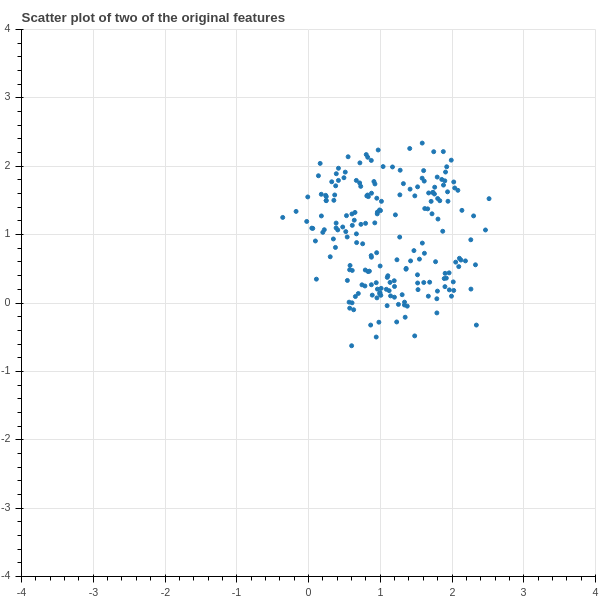
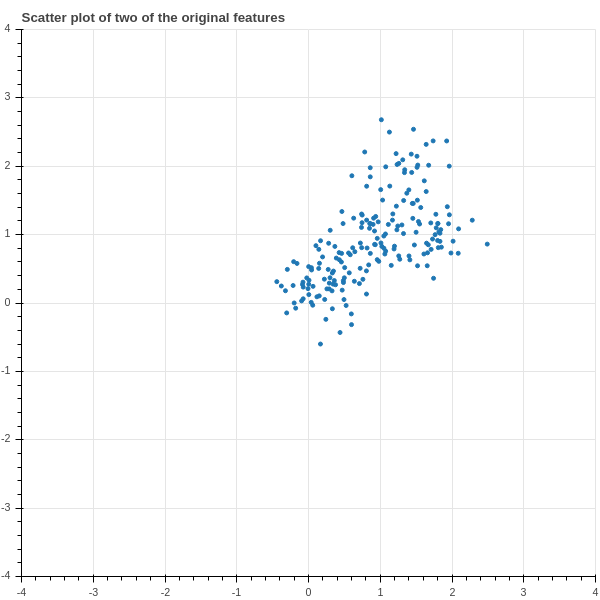
progress on PCA

Changed region(s): [[0.45, 0.21, 0.78, 0.54], [0.78, 0.36, 0.81, 0.39], [0.6, 0.54, 0.63, 0.57]]

diff --git a/PCA/src/DimReduction.html b/PCA/src/DimReduction.html
@@ -34,14 +34,14 @@
           
           
             
-              <div class="bk-root" id="871ba66c-07c6-4cd9-a043-fec06af19fca" data-root-id="1430"></div>
+              <div class="bk-root" id="eb6e8c0e-69dc-45c8-8ab1-ee1f8e26d0a9" data-root-id="1604"></div>
             
           
         
       
       
-        <script type="application/json" id="1719">
[1 lines of base64/hex data omitted]
+        <script type="application/json" id="2013">
[1 lines of base64/hex data omitted]
         </script>
         <script type="text/javascript">
           (function() {
@@ -50,8 +50,8 @@
                 (function(root) {
                   function embed_document(root) {
                     
-                  var docs_json = document.getElementById('1719').textContent;
-                  var render_items = [{"docid":"b1cb1c8c-e032-442e-b310-74aefe07c504","root_ids":["1430"],"roots":{"1430":"871ba66c-07c6-4cd9-a043-fec06af19fca"}}];
+                  var docs_json = document.getElementById('2013').textContent;
+                  var render_items = [{"docid":"c0c2c0e5-ee48-4b71-a508-b69e927a575e","root_ids":["1604"],"roots":{"1604":"eb6e8c0e-69dc-45c8-8ab1-ee1f8e26d0a9"}}];
                   root.Bokeh.embed.embed_items(docs_json, render_items);
                 
                   }

diff --git a/PCA/notes/main.html b/PCA/notes/main.html
@@ -26,17 +26,12 @@
   </style>
 </head>
 <body>
-<section id="principal-component-analysis" data-number="1">
-<h1 data-number="2"><span class="header-section-number">2</span> Principal Component Analysis</h1>
-<section id="introduction" data-number="1.1">
-<h2 data-number="2.1"><span class="header-section-number">2.1</span> Introduction</h2>
+<h1 data-number="1" id="principal-component-analysis"><span class="header-section-number">1</span> Principal Component Analysis</h1>
+<h2 data-number="1.1" id="introduction"><span class="header-section-number">1.1</span> Introduction</h2>
 <p>Suppose that, as usual, we begin with a collection of measurements of different features for a group of samples. Some of these measurements will tell us quite a bit about the difference among our samples, while others may contain relatively little information. For example, if we are analyzing the effect of a certain weight loss regimen on a group of people, the age and weight of the subjects may have a great deal of influence on how successful the regimen is, while their blood pressure might not. One way to help identify which features are more significant is to ask whether or not the feature varies a lot among the different samples. If nearly all the measurements of a feature are the same, it can’t have much power in distinguishing the samples, while if the measurements vary a great deal then that feature has a chance to contain useful information.</p>
 <p>In this section we will discuss a way to measure the variability of measurements and then introduce principal component analysis (PCA). PCA is a method for finding which linear combinations of measurements have the greatest variability and therefore might contain the most information. It also allows us to identify combinations of measurements that don’t vary much at all. Combining this information, we can sometimes replace our original system of features with a smaller set that still captures most of the interesting information in our data, and thereby find hidden characteristics of the data and simplify our analysis a great deal.</p>
-</section>
-<section id="variance-and-covariance" data-number="1.2">
-<h2 data-number="2.2"><span class="header-section-number">2.2</span> Variance and Covariance</h2>
-<section id="variance" data-number="1.2.1">
-<h3 data-number="2.2.1"><span class="header-section-number">2.2.1</span> Variance</h3>
+<h2 data-number="1.2" id="variance-and-covariance"><span class="header-section-number">1.2</span> Variance and Covariance</h2>
+<h3 data-number="1.2.1" id="variance"><span class="header-section-number">1.2.1</span> Variance</h3>
 <p>Suppose that we have a collection of measurements <span class="math inline">\((x_1,\ldots, x_n)\)</span> of a particular feature <span class="math inline">\(X\)</span>. For example, <span class="math inline">\(x_i\)</span> might be the initial weight of the <span class="math inline">\(ith\)</span> participant in our weight loss study. The mean of the values <span class="math inline">\((x_1,\ldots, x_n)\)</span> is</p>
 <p><span class="math display">\[
 \mu_{X} = \frac{1}{n}\sum_{i=1}^{n} x_{i}.
@@ -52,9 +47,7 @@
 <p><span id="eq:variancedot" class="eqnos"><span class="math display">\[
 \sigma_{X}^2 = \frac{1}{n}(X-\mu_{X}E)\cdot(X-\mu_{X}E)  = \frac{1}{n}\|X-\mu_{X}E\|^2.
 \]</span><span class="eqnos-number">(2)</span></span></p>
-</section>
-<section id="covariance" data-number="1.2.2">
-<h3 data-number="2.2.2"><span class="header-section-number">2.2.2</span> Covariance</h3>
+<h3 data-number="1.2.2" id="covariance"><span class="header-section-number">1.2.2</span> Covariance</h3>
 <p>The variance measures the dispersion of measures of a single feature. Often, we have measurements of multiple features and we might want to know something about how two features are related. The <em>covariance</em> is a measure of whether two features tend to be related, in the sense that when one increases, the other one increases; or when one increases, the other one decreases.</p>
 <p><strong>Definition:</strong> Given measurements <span class="math inline">\((x_1,\ldots, x_n)\)</span> and <span class="math inline">\((y_1,\ldots, y_n)\)</span> of two features <span class="math inline">\(X\)</span> and <span class="math inline">\(Y\)</span>, the covariance of <span class="math inline">\(X\)</span> and <span class="math inline">\(Y\)</span> is</p>
 <p><span id="eq:covariancedot" class="eqnos"><span class="math display">\[
@@ -65,9 +58,7 @@
 \sigma_{XY} = \frac{1}{N} ((X-\mu_{X})\cdot (Y-\mu_{Y})).
 \]</span></p>
 <p>From this point of view, we can see that <span class="math inline">\(\sigma_{XY}\)</span> is positive if the <span class="math inline">\(X-\mu_{X}\)</span> and <span class="math inline">\(Y-\mu_{Y}\)</span> vectors “point roughly in the same direction” and its negative if they “point roughly in the opposite direction.”</p>
-</section>
-<section id="correlation" data-number="1.2.3">
-<h3 data-number="2.2.3"><span class="header-section-number">2.2.3</span> Correlation</h3>
+<h3 data-number="1.2.3" id="correlation"><span class="header-section-number">1.2.3</span> Correlation</h3>
 <p>One problem with interpreting the variance and covariance is that we don’t have a scale – for example, if <span class="math inline">\(\sigma_{XY}\)</span> is large and positive, then we’d like to say that <span class="math inline">\(X\)</span> and <span class="math inline">\(Y\)</span> are closely related, but it could be just that the entries of <span class="math inline">\(X-\mu_{X}\)</span> and <span class="math inline">\(Y-\mu_{Y}\)</span> are large. Here, though, we can really take advantage of the geometric interpretation. Recall that the dot product of two vectors satisfies the formula</p>
 <p><span class="math display">\[
 a \cdot b = \|a\|\|b\|\cos(\theta)
@@ -92,9 +83,7 @@ r_{XY} = \frac{\sigma_{XY}}{\sigma_{X}\sigma_{Y}}
 <img src="../img/correlation.png" style="width:50.0%" alt="" /><figcaption><span>Figure 1:</span> Correlation</figcaption>
 </figure>
 </div>
-</section>
-<section id="sec:covarmat" data-number="1.2.4">
-<h3 data-number="2.2.4"><span class="header-section-number">2.2.4</span> The covariance matrix</h3>
+<h3 data-number="1.2.4" id="sec:covarmat"><span class="header-section-number">1.2.4</span> The covariance matrix</h3>
 <p>In a typical situation we have many features for each of our (many) samples, that we organize into a data matrix <span class="math inline">\(X\)</span>. To recall, each column of <span class="math inline">\(X\)</span> corresponds to a feature that we measure, and each row corresponds to a sample. For example, each row of our matrix might correspond to a person enrolled in a study, and the columns correspond to height (cm), weight (kg), systolic blood pressure, and age (in years):</p>
 <div id="tbl:data" class="tablenos">
 <table>
@@ -154,10 +143,9 @@ d_{ii} = \sigma_{i}^2 = \frac{1}{N}\sum_{s=1}^{k}(x_{si}-\mu_i)^2
 <p><span class="math display">\[
 d_{ij} = \sigma_{ij} = \frac{1}{N}\sum_{s=1}^{k}(x_{si}-\mu_{i})(x_{sj}-\mu_{j})
 \]</span></p>
+<p>The sum of the diagonal entries, the trace of <span class="math inline">\(D_{0}\)</span> is the <strong>total</strong> variance of the data.</p>
 <p><strong>Proof:</strong> This follows from the definitions, but it’s worth checking the details, which we leave as an exercise.</p>
-</section>
-<section id="linear-combinations-of-features-scores" data-number="1.2.5">
-<h3 data-number="2.2.5"><span class="header-section-number">2.2.5</span> Linear Combinations of Features (Scores)</h3>
+<h3 data-number="1.2.5" id="linear-combinations-of-features-scores"><span class="header-section-number">1.2.5</span> Linear Combinations of Features (Scores)</h3>
 <p>Sometimes useful information about our data can be revealed if we combine different measurements together to obtain a “hybrid” measure that captures something interesting. For example, in the Auto MPG dataset that we studied in the section on Linear Regression, we looked at the influence of both vehicle weight <span class="math inline">\(w\)</span> and engine displacement <span class="math inline">\(e\)</span> on gas mileage; perhaps their is some value in considering a hybrid “score” defined as <span class="math display">\[
 S = a*w + b*e
 \]</span> for some constants <span class="math inline">\(a\)</span> and <span class="math inline">\(b\)</span> – maybe by choosing a good combination we could find a better predictor of gas mileage than using one or the other of the features individually.</p>
@@ -173,9 +161,7 @@ X_{0}\left[
 \begin{matrix} a_{1} \\ \vdots \\ a_{N}\end{matrix}\right].
 \]</span><span class="eqnos-number">(5)</span></span></p>
 <p><strong>Proof:</strong> Multiplying a matrix by a column vector computes a linear combination of the columns – that’s what this lemma says. Exercise 3 asks you to write out the indices and make sure you believe this.</p>
-</section>
-<section id="mean-and-variance-of-scores" data-number="1.2.6">
-<h3 data-number="2.2.6"><span class="header-section-number">2.2.6</span> Mean and variance of scores</h3>
+<h3 data-number="1.2.6" id="mean-and-variance-of-scores"><span class="header-section-number">1.2.6</span> Mean and variance of scores</h3>
 <p>When we combine features to make a hybrid score, we assume that the features were centered to begin with, so that each features has mean zero. As a result, the mean of the hybrid features is again zero.</p>
 <p><strong>Lemma:</strong> A linear combination of features with mean zero again has mean zero.</p>
 <p><strong>Proof:</strong> Let <span class="math inline">\(S_{i}\)</span> be the score for the <span class="math inline">\(i^{th}\)</span> sample, so <span class="math display">\[
@@ -203,9 +189,7 @@ S = X_{0}a.
 <p>For the covariance, use a similar argument with eq. <a href="#eq:covariancedot">3</a> and eq. <a href="#eq:linearscore">5</a>. writing <span class="math inline">\(\sigma_{S_{1}S_{2}}=\frac{1}{N}S_{1}\cdot S_{2}\)</span> and the fact that <span class="math inline">\(S_{1}\)</span> and <span class="math inline">\(S_{2}\)</span> can be written as <span class="math inline">\(X_{0}a\)</span> and <span class="math inline">\(X_{0}b\)</span>.</p>
 <p>The point of this lemma is that the covariance matrix contains not just the variances and covariances of the original features, but also enough information to construct the variances and covariances for <em>any linear combination of features.</em></p>
 <p>In the next section we will see how to exploit this idea to reveal hidden structure in our data.</p>
-</section>
-<section id="geometry-of-scores" data-number="1.2.7">
-<h3 data-number="2.2.7"><span class="header-section-number">2.2.7</span> Geometry of Scores</h3>
+<h3 data-number="1.2.7" id="geometry-of-scores"><span class="header-section-number">1.2.7</span> Geometry of Scores</h3>
 <p>Let’s begin by looking at fig. <a href="#fig:pcasimfig">2</a>, which shows a scatter plot of some simulated data having <span class="math inline">\(50\)</span> samples and two features. This data has been centered, so it can be represented in a <span class="math inline">\(50\times 2\)</span> data matrix <span class="math inline">\(X_{0}\)</span> each row of which is the coordinates <span class="math inline">\((x_0,x_1)\)</span> of one of the points in the picture.</p>
 <p>The scatter plot shows that the data points are arranged in a more or less elliptical cloud oriented at an angle to the <span class="math inline">\(xy\)</span>-axes which represent the two given features. The two individual histograms show the distribution of the two features – each has mean zero, with the <span class="math inline">\(x\)</span>-features distributed between <span class="math inline">\(-2\)</span> and <span class="math inline">\(2\)</span> and the <span class="math inline">\(y\)</span> feature between <span class="math inline">\(-4\)</span> and <span class="math inline">\(4\)</span>. Looking just at the two features individually, meaning only at the two histograms, we can’t see the overall elliptical structure.</p>
 <div id="fig:pcasimfig" class="fignos">
@@ -242,12 +226,8 @@ Z = X_0 u
 <p><strong>Lemma:</strong> Let <span class="math inline">\(X_{0}\)</span> be a <span class="math inline">\(k\times N\)</span> centered data matrix, and let <span class="math inline">\(D_{0}=\frac{1}{N}X_{0}^{\intercal}X_{0}\)</span> be the associated covariance matrix. Let <span class="math inline">\(u\)</span> be a unit vector in “feature space” <span class="math inline">\(\mathbf{R}^{N}\)</span>. Then the score <span class="math inline">\(S=X_{0}u\)</span> can be interpreted as the coordinates of the points of <span class="math inline">\(X_{0}\)</span> projected onto the line generated by <span class="math inline">\(u\)</span>. The variance <span class="math display">\[
 \sigma^{2}_{S} = u^{\intercal}D_{0}u = \sum_{i=1}^{k} s_{i}^2
 \]</span> where <span class="math inline">\(s_{i} = X_{0}[i,:]u\)</span> is the dot product of the <span class="math inline">\(i^{th}\)</span> row <span class="math inline">\(X_{0}[i,:]\)</span> with <span class="math inline">\(u\)</span>. It measures the variability in the data “in the direction of the unit vector <span class="math inline">\(u\)</span>”.</p>
-</section>
-</section>
-<section id="principal-components" data-number="1.3">
-<h2 data-number="2.3"><span class="header-section-number">2.3</span> Principal Components</h2>
-<section id="change-of-variance-with-direction" data-number="1.3.1">
-<h3 data-number="2.3.1"><span class="header-section-number">2.3.1</span> Change of variance with direction</h3>
+<h2 data-number="1.3" id="principal-components"><span class="header-section-number">1.3</span> Principal Components</h2>
+<h3 data-number="1.3.1" id="change-of-variance-with-direction"><span class="header-section-number">1.3.1</span> Change of variance with direction</h3>
 <p>As we’ve seen in the previous section, if we choose a unit vector <span class="math inline">\(u\)</span> in the feature space and find the projection <span class="math inline">\(X_{0}u\)</span> of our data onto the line through <span class="math inline">\(u\)</span>, we get a “score” that we can use to measure the variance of the data in the direction of <span class="math inline">\(u\)</span>. What happens as we vary <span class="math inline">\(u\)</span>?</p>
 <p>To study this question, let’s continue with our simulated data from the previous section, and introduce a unit vector <span class="math display">\[
 u(\theta) = \left[\begin{matrix} \cos(\theta) &amp; \sin(\theta)\end{matrix}\right].
@@ -268,9 +248,7 @@ u(\theta) = \left[\begin{matrix} \cos(\theta) &amp; \sin(\theta)\end{matrix}\rig
 </figure>
 </div>
 <p>Let’s try to understand why this is happening.</p>
-</section>
-<section id="directions-of-extremal-variance" data-number="1.3.2">
-<h3 data-number="2.3.2"><span class="header-section-number">2.3.2</span> Directions of extremal variance</h3>
+<h3 data-number="1.3.2" id="directions-of-extremal-variance"><span class="header-section-number">1.3.2</span> Directions of extremal variance</h3>
 <p>Given our centered, <span class="math inline">\(k\times N\)</span> data matrix <span class="math inline">\(X_{0}\)</span>, with its associated covariance matrix <span class="math inline">\(D_{0}=\frac{1}{N}X_{0}^{\intercal}X_{0}\)</span>, we would like to find unit vectors <span class="math inline">\(u\)</span> in <span class="math inline">\(\mathbf{R}^{N}\)</span> so that <span class="math display">\[
 \sigma_{u}^{2} = u^{\intercal}D_{0}u
 \]</span> reaches its maximum and its minimum. Here <span class="math inline">\(\sigma_{u}^2\)</span> is the variance of the “linear score” <span class="math inline">\(X_{0}u\)</span> and it represents how dispersed the data is in the “u direction” in <span class="math inline">\(\mathbf{R}^{N}\)</span>.</p>
@@ -320,9 +298,7 @@ F(u_1,\ldots, u_{N}) = \sum_{i=1}^{N} \sum_{j=1}^{N} u_i d_{ij} u_j.
 \nabla_{u}F = \left[\begin{matrix} \frac{\partial F}{\partial u_{1}} \\ \vdots \\ \frac{\partial F}{\partial u_{N}}\end{matrix}\right] = 2Du.
 \]</span></p>
 <p>The following theorem puts all of this work together to reduce our questions about how variance changes with direction.</p>
-</section>
-<section id="sec:critvals" data-number="1.3.3">
-<h3 data-number="2.3.3"><span class="header-section-number">2.3.3</span> Critical values of the variance</h3>
+<h3 data-number="1.3.3" id="sec:critvals"><span class="header-section-number">1.3.3</span> Critical values of the variance</h3>
 <p><strong>Theorem:</strong> The critical values of the variance <span class="math inline">\(\sigma_{u}^2\)</span>, as <span class="math inline">\(u\)</span> varies over unit vectors in <span class="math inline">\(\mathbf{R}^{N}\)</span>, are the eigenvalues <span class="math inline">\(\lambda_{1},\ldots,\lambda_{N}\)</span> of the covariance matrix <span class="math inline">\(D\)</span>, and if <span class="math inline">\(e_{i}\)</span> is a unit eigenvector corresponding to <span class="math inline">\(\lambda_{i}\)</span>, then <span class="math inline">\(\sigma_{e_{i}}^2 = \lambda_{i}\)</span>.</p>
 <p><strong>Proof:</strong> Recall that we introduced the Lagrange function <span class="math inline">\(S(u,\lambda)\)</span>, whose critical points give us the solutions to our constrained optimization problem. As we said in eq. <a href="#eq:lagrange">7</a>: <span class="math display">\[
 S(u,\lambda) = u^{\intercal}D_{0}u - \lambda(u\cdot u - 1) = u^{\intercal}D_{0}u -\lambda(u\cdot u) + \lambda
@@ -339,7 +315,7 @@ D_{0}u = \lambda u
 \]</span> while the second says <span class="math inline">\(u\)</span> must be a unit vector <span class="math inline">\(u\cdot u=\|u\|^2=1\)</span>. The second part of the result follows from the fact that if <span class="math inline">\(e_{i}\)</span> is a unit eigenvector with eigenvalue <span class="math inline">\(\lambda_{i}\)</span> then <span class="math display">\[
 \sigma_{e_{i}}^2 = e_{i}^{\intercal}De_{i} = \lambda_{i}\|e_{i}\|^2=\lambda_{i}.
 \]</span></p>
-<p>To really make this result pay off, we need to recall some key facts about the eigenvalues and eigenvectors of symmetric matrices. Because these facts are so central to this result, and to other applications throughout machine learning and mathematics generally, we provide proofs in section <a href="#sec:spectraltheorem">1.4</a>.</p>
+<p>To really make this result pay off, we need to recall some key facts about the eigenvalues and eigenvectors of symmetric matrices. Because these facts are so central to this result, and to other applications throughout machine learning and mathematics generally, we provide proofs in section <a href="#sec:spectraltheorem">1.5</a>.</p>
 <hr />
 <div id="tbl:symmmat" class="tablenos">
 <table>
@@ -381,11 +357,9 @@ S = \sum a_{i}u_{i}.
 <li>subject to the constraint <span class="math inline">\(\sum a_{i}^2 = 1\)</span>.</li>
 </ul>
 <p>We don’t need any fancy math to see that the maximum happens when <span class="math inline">\(a_{1}=1\)</span> and the other <span class="math inline">\(a_{j}=0\)</span>, and in that case, the maximum is <span class="math inline">\(\lambda_{1}\)</span>. (If <span class="math inline">\(\lambda_{1}\)</span> occurs more than once, there may be a whole subspace of directions where the variance is maximal). Similarly, the minimum value is <span class="math inline">\(\lambda_{N}\)</span> and occurs when <span class="math inline">\(a_{N}=1\)</span> and the others are zero.</p>
-</section>
-<section id="definition-of-principal-components" data-number="1.3.4">
-<h3 data-number="2.3.4"><span class="header-section-number">2.3.4</span> Definition of Principal Components</h3>
+<h3 data-number="1.3.4" id="definition-of-principal-components"><span class="header-section-number">1.3.4</span> Definition of Principal Components</h3>
 <p><strong>Definition:</strong> The orthonormal unit eigenvectors <span class="math inline">\(u_{i}\)</span> for <span class="math inline">\(D_{0}\)</span> are the <em>principal directions</em> or <em>principal components</em> for the data <span class="math inline">\(X_{0}\)</span>.</p>
-<p><strong>Theorem:</strong> The maximum variance occurs in the principal direction(s) associated to the largest eigenvalue, and the minimum variance in the principal direction(s) associated with the smallest one. The covariance between scores in principal directions associated with different eigenvalues is zero.</p>
+<p><strong>Theorem:</strong> The maximum variance occurs in the principal direction(s) associated to the largest eigenvalue, and the minimum variance in the principal direction(s) associated with the smallest one. The covariance between scores in principal directions associatedwith different eigenvalues is zero.</p>
 <p>At this point, the picture in fig. <a href="#fig:pcaprincipal">7</a> makes sense – the red and green dashed lines are the principal directions, they are orthogonal to one another, and the point in the directions where the data is most (and least) “spread out.”</p>
 <p><strong>Proof:</strong> The statement about the largest and smallest eigenvalues is proved at the very end of the last section. The covariance of two scores corresponding to different eigenvectors <span class="math inline">\(u_{i}\)</span> and <span class="math inline">\(u_{j}\)</span> is <span class="math display">\[u_{i}^{\intercal}D_{0}u_{j} = \lambda_{j}(u_{i}\cdot u_{j}) = 0\]</span> since the <span class="math inline">\(u_{i}\)</span> and <span class="math inline">\(u_{j}\)</span> are orthogonal.</p>
 <p>Sometimes the results above are presented in a slightly different form, and may be referred to, in part, as Rayleigh’s theorem.</p>
@@ -400,13 +374,29 @@ H(v) = \max_{v\not = 0}\frac{v^{\intercal}Dv}{v^{\intercal}v}.
 <li><p>Let <span class="math inline">\(X_{0}\)</span> be a <span class="math inline">\(k\times N\)</span> matrix with entries <span class="math inline">\(x_{ij}\)</span> for <span class="math inline">\(1\le i\le k\)</span> and <span class="math inline">\(1\le j\le N\)</span>. If a linear score is defined by the constants <span class="math inline">\(a_{1},\ldots a_{N}\)</span>, check that equation eq. <a href="#eq:linearscore">5</a> holds as claimed.</p></li>
 <li><p>Why is it important to use a unit vector when computing the variance of <span class="math inline">\(X_{0}\)</span> in the direction of <span class="math inline">\(u\)</span>? Suppose <span class="math inline">\(v=\lambda u\)</span> where <span class="math inline">\(u\)</span> is a unit vector and <span class="math inline">\(\lambda&gt;0\)</span> is a constant. Let <span class="math inline">\(S&#39;\)</span> be the score <span class="math inline">\(X_{0}v\)</span>. How is the variance of <span class="math inline">\(S&#39;\)</span> related to that of <span class="math inline">\(S=X_{0}u\)</span>?</p></li>
 </ol>
-</section>
-</section>
-<section id="sec:spectraltheorem" data-number="1.4">
-<h2 data-number="2.4"><span class="header-section-number">2.4</span> Eigenvalues and Eigenvectors of Real Symmetric Matrices (The Spectral Theorem)</h2>
-<p>In this section, we prove the four properties of eigenvalues and eigenvectors of real symmetric matrices that we used in our discussion of Principal Components. A key tool in the proof is the Gram-Schmidt orthogonalization process.</p>
-<section id="sec:gsprocess" data-number="1.4.1">
-<h3 data-number="2.4.1"><span class="header-section-number">2.4.1</span> Gram-Schmidt</h3>
+<h2 data-number="1.4" id="dimensionality-reduction-via-principal-components"><span class="header-section-number">1.4</span> Dimensionality Reduction via Principal Components</h2>
+<p>The principal components associated with a dataset separate out directions in the feature space in which the data is most (or least) variable. One of the main applications of this information is to enable us to take data with a great many features – a set of points in a high dimensional space – and, by focusing our attention on the scores corresponding to the principal directions, capture most of the information in the data in a much lower dimensional setting.</p>
+<p>To illustrate how this is done, let <span class="math inline">\(X\)</span> be a <span class="math inline">\(k\times N\)</span> data matrix, let <span class="math inline">\(X_{0}\)</span> be its centered version, and let <span class="math inline">\(D_{0} = \frac{1}{N}X_{0}^{\intercal}X\)</span> be the associated covariance matrix.</p>
+<p>Apply the spectral theorem (described in +@{tbl:symmmat} and proved in +<strong>???</strong>{spectraltheorem}) to the covariance matrix to obtain eigenvalues <span class="math inline">\(\lambda_{1}\ge \lambda_{2}\ge\cdots \lambda_{N}\ge 0\)</span> and associated eigenvectors <span class="math inline">\(u_{1},\ldots, u_{N}\)</span>. The scores <span class="math inline">\(S_{i}=X_{0}u_{i}\)</span> give the values of the data in the principal directions. The variance of <span class="math inline">\(S_{i}\)</span> is <span class="math inline">\(\lambda_{i}\)</span>.</p>
+<p>Now choose a number <span class="math inline">\(t&lt;N\)</span> and consider the vectors <span class="math inline">\(S_{1},\ldots, S_{t}\)</span>. The <span class="math inline">\(j^{th}\)</span> entry in <span class="math inline">\(S_{i}\)</span> is the value of the score <span class="math inline">\(S_{i}\)</span> for the <span class="math inline">\(j^{th}\)</span> data point. Because <span class="math inline">\(S_{1},\ldots, S_{t}\)</span> capture the most significant variability in the original data, we can learn a lot about our data by considering just these <span class="math inline">\(t\)</span> features of the data, instead of needing all <span class="math inline">\(N\)</span>.</p>
+<p>To illustrate, let’s look at an example. We begin with a synthetic dataset <span class="math inline">\(X_{0}\)</span> which has <span class="math inline">\(200\)</span> samples and <span class="math inline">\(15\)</span> features. It’s hard to visualize much about this <span class="math inline">\(200\times 15\)</span> matrix; it has <span class="math inline">\(3000\)</span> numbers in it and we’re not really equipped to make sense of it. We could try some graphing – for example, fig. <a href="#fig:features">8</a> shows a scatter plot of two of the features plotted against each other.</p>
+<div id="fig:features" class="fignos">
+<figure>
+<img src="../img/features.png" style="width:50.0%" alt="" /><figcaption><span>Figure 8:</span> Scatter Plot of Two Features</figcaption>
+</figure>
+</div>
+<p>Unfortunately there’s not much to see in fig. <a href="#fig:features">8</a> – just a blob – because the individual features of the data don’t tell us much in isolation, whatever structure there is in this data arises out of the relationship between different features.</p>
+<p>So let’s apply the theory of principal components. We use a software package to compute the eigenvalues and eigenvectors of the matrix <span class="math inline">\(D_{0}\)</span>. The <span class="math inline">\(15\)</span> eigenvalues <span class="math inline">\(\lambda_{1}\ge \cdots \ge \lambda_{15}\)</span> are plotted, in descending order, in fig. <a href="#fig:eigenvalues">9</a> .</p>
+<div id="fig:eigenvalues" class="fignos">
+<figure>
+<img src="../img/eigenvalues.png" style="width:50.0%" alt="" /><figcaption><span>Figure 9:</span> Eigenvalues of the Covariance Matrix</figcaption>
+</figure>
+</div>
+<p>This plot shows that the first <span class="math inline">\(4\)</span> eigenvalues are relatively large, while the remaining <span class="math inline">\(11\)</span> are smaller and not much different from each other. We interpret this as saying that <em>most of the variation in the data is accounted for by the first four principal components.</em> We can even make this quantitative. The <em>total variance</em> of the data is the sum of the eigenvalues of the covariance matrix – the trace of <span class="math inline">\(D_{0}\)</span> – and in this example that sum is <span class="math inline">\(5.2\)</span>. The sum of the first <span class="math inline">\(4\)</span> eigenvalues is <span class="math inline">\(4.23\)</span>, so the first four eignvalues account for <span class="math inline">\(4.2/5.2\)</span> of the total variance, or about <span class="math inline">\(80\%\)</span> of the variation of the data.</p>
+<h2 data-number="1.5" id="sec:spectraltheorem"><span class="header-section-number">1.5</span> Eigenvalues and Eigenvectors of Real Symmetric Matrices (The Spectral Theorem)</h2>
+<p>In this section, we prove the four properties of eigenvalues and eigenvectors of real symmetric matrices that we used in our discussion of Principal Components.</p>
+<p>A key tool in the proof is the Gram-Schmidt orthogonalization process.</p>
+<h3 data-number="1.5.1" id="sec:gsprocess"><span class="header-section-number">1.5.1</span> Gram-Schmidt</h3>
 <p><strong>Proposition (Gram-Schmidt Process):</strong> Let <span class="math inline">\(w_{1},\ldots, w_{k}\)</span> be a collection of linearly independent vectors in <span class="math inline">\(\mathbf{R}^{N}\)</span> and let <span class="math inline">\(W\)</span> be the span of the <span class="math inline">\(w_{i}\)</span>. Let <span class="math inline">\(u_{1} = w_{1}\)</span> and let <span class="math display">\[
 u_{i} = w_{i} - \sum_{j=1}^{i-1} \frac{w_{i}\cdot u_{j}}{u_{j}\cdot u_{j}}u_{j}
 \]</span> for <span class="math inline">\(i=2,\ldots, k\)</span>. Then</p>
@@ -417,9 +407,7 @@ u_{i} = w_{i} - \sum_{j=1}^{i-1} \frac{w_{i}\cdot u_{j}}{u_{j}\cdot u_{j}}u_{j}
 <li>The vectors <span class="math inline">\(u&#39;_{i} = u_{i}/\|u_{i}\|\)</span> are orthonormal.</li>
 </ul>
 <p><strong>Proof:</strong> This is an inductive exercise, and we leave it to you to work out the details.</p>
-</section>
-<section id="the-spectral-theorem" data-number="1.4.2">
-<h3 data-number="2.4.2"><span class="header-section-number">2.4.2</span> The spectral theorem</h3>
+<h3 data-number="1.5.2" id="the-spectral-theorem"><span class="header-section-number">1.5.2</span> The spectral theorem</h3>
 <p><strong>Theorem:</strong> Let <span class="math inline">\(D\)</span> be a real symmetric <span class="math inline">\(N\times N\)</span> matrix. Then:</p>
 <ol type="1">
 <li>All of the <span class="math inline">\(N\)</span> eigenvalues <span class="math inline">\(\lambda_1\ge \lambda_2\ge \cdots \ge \lambda_{N}\)</span> are real. If <span class="math inline">\(u^{\intercal}Du\ge 0\)</span> for all <span class="math inline">\(u\in\mathbf{R}^{N}\)</span>, then all eigenvalues <span class="math inline">\(\lambda_{i}\ge 0\)</span>.</li>
@@ -479,10 +467,7 @@ P^{\intercal}e_{i} = \left[\begin{matrix} (e_{i}\cdot u_{1})\\ (e_{i}\cdot u_{2}
 \]</span> so the two matrices <span class="math inline">\(D\)</span> and <span class="math inline">\(P\Lambda P^{\intercal}\)</span> are in fact equal.</p>
 <p><strong>Exercises:</strong></p>
 <ol type="1">
-<li>Prove the Gram-Schmidt Process has the claimed properties in section <a href="#sec:gsprocess">1.4.1</a>.</li>
+<li>Prove the Gram-Schmidt Process has the claimed properties in section <a href="#sec:gsprocess">1.5.1</a>.</li>
 </ol>
-</section>
-</section>
-</section>
 </body>
 </html>

diff --git a/PCA/src/DimReduction.py b/PCA/src/DimReduction.py
@@ -15,7 +15,7 @@ for i, x in enumerate(U):
 
 colors = ["blue", "red", "black", "orange", "green"]
 
-P = PCA(n_components=2).fit(d)
+P = PCA(n_components=N).fit(d)
 S = P.components_
 D = P.transform(d)
 
@@ -37,6 +37,10 @@ pc_plot_colored = figure(
 pc_plot_colored.scatter(x=D[:, 0], y=D[:, 1],color = [Category20[10][i] for i in U])
 export_png(pc_plot_colored, filename='../img/pcadimred_colors.png')
 
+eigenvalue_plot = figure(title='Eigenvalues of the covariance matrix', toolbar_location=None)
+eigenvalue_plot.line(x=range(1,N+1),y=P.explained_variance_)
+eigenvalue_plot.circle(x=range(1,N+1),y=P.explained_variance_)
+export_png(eigenvalue_plot,filename='../img/eigenvalues.png')
 
 feature_plot = figure(
     x_range=(-4, 4),
@@ -47,5 +51,5 @@ feature_plot = figure(
 feature_plot.scatter(x=d[:, 0], y=d[:, 7])
 export_png(feature_plot,filename='../img/features.png')
 
-show(column(pc_plot, pc_plot_colored, feature_plot))
+show(column(pc_plot, pc_plot_colored, feature_plot, eigenvalue_plot))
 

diff --git a/PCA/notes/main.md b/PCA/notes/main.md
@@ -184,7 +184,11 @@ $$
 d_{ij} = \sigma_{ij} = \frac{1}{N}\sum_{s=1}^{k}(x_{si}-\mu_{i})(x_{sj}-\mu_{j})
 $$
 
+The sum of the diagonal entries, the trace of $D_{0}$ is the **total** variance of the data.
+
 **Proof:** This follows from the definitions, but it's worth checking the details, which we leave as an exercise.
+
+
 
 ### Linear Combinations of Features (Scores)
 
@@ -601,7 +605,7 @@ when $a_{N}=1$ and the others are zero.
 **Definition:** The orthonormal unit eigenvectors $u_{i}$ for $D_{0}$ are the *principal directions* or *principal components* for the data $X_{0}$.  
 
 **Theorem:** The maximum
-variance occurs in the principal direction(s) associated to the largest eigenvalue, and the minimum variance in the principal direction(s) associated with the smallest one. The covariance between scores in  principal directions associated with different eigenvalues is zero.
+variance occurs in the principal direction(s) associated to the largest eigenvalue, and the minimum variance in the principal direction(s) associated with the smallest one. The covariance between scores in  principal directions associatedwith different eigenvalues is zero. 
 
 At this point, the picture in +@fig:pcaprincipal makes sense -- the red and green dashed lines are the principal directions,
 they are orthogonal to one another, and the point in the directions where the data is most (and least) "spread out."
@@ -646,6 +650,48 @@ in which the data is most (or least) variable.  One of the main applications of 
 is to enable us to take data with a great many features -- a set of points in a high dimensional
 space -- and, by focusing  our attention on the scores corresponding to the principal directions,
 capture most of the information in the data in a much lower dimensional setting. 
+
+To illustrate how this is done, let $X$ be a $k\times N$ data matrix, let $X_{0}$ be its centered
+version, and let $D_{0} = \frac{1}{N}X_{0}^{\intercal}X$ be the associated covariance matrix. 
+
+Apply the spectral theorem (described in +@{tbl:symmmat} and proved in +@sec{spectraltheorem})
+to the covariance matrix to obtain eigenvalues $\lambda_{1}\ge \lambda_{2}\ge\cdots \lambda_{N}\ge 0$
+and associated eigenvectors $u_{1},\ldots, u_{N}$.  The scores $S_{i}=X_{0}u_{i}$
+give the values of the data in the principal  directions.  The variance of $S_{i}$ is $\lambda_{i}$.
+
+Now choose a number $t<N$ and consider the vectors $S_{1},\ldots, S_{t}$.  The $j^{th}$ entry in $S_{i}$ is
+the value of the score $S_{i}$ for the $j^{th}$ data point.  Because $S_{1},\ldots, S_{t}$ capture
+the most significant variability in the original data, we can learn a lot about our data by
+considering just these $t$ features of the data, instead of needing all $N$.  
+
+To illustrate, let's look at an example.  We begin with a synthetic dataset $X_{0}$ which has
+$200$ samples and $15$ features.  It's hard to visualize much about this $200\times 15$ matrix;
+it has $3000$ numbers in it and we're not really equipped to make sense of it.  We could try
+some graphing -- for example, +@fig:features shows a scatter plot of two of the features plotted against each other. 
+
+![Scatter Plot of Two Features](../img/features.png){#fig:features width=50%}
+
+Unfortunately there's not much to see in  +@fig:features -- just a blob -- because the individual features of the data 
+don't tell us much in isolation, whatever structure there is in this data arises out of the relationship
+between different features.
+
+So let's apply the theory of principal components.  We use a software package to compute the eigenvalues
+and eigenvectors of the matrix $D_{0}$.  The $15$  eigenvalues $\lambda_{1}\ge \cdots \ge \lambda_{15}$
+are plotted, in descending order, in +@fig:eigenvalues .
+
+![Eigenvalues of the Covariance Matrix](../img/eigenvalues.png){#fig:eigenvalues width=50%}
+
+This plot shows that the first $4$ eigenvalues are relatively large, while the remaining $11$
+are smaller and not much different from each other.  We interpret this as saying that *most of the
+variation in the data is accounted for by the first four principal components.*  We can even
+make this quantitative.  The *total variance* of the data is the sum of the eigenvalues of the covariance
+matrix -- the trace of $D_{0}$ -- and in this example that sum is around $5$.  The sum of the first
+$4$ eigenvalues is about $4$, so the first four eignvalues account for about $4/5$ of the total variance,
+or about $80\%$ of the variation of the data.
+
+*** look at the top two to see structure revealed ***
+
+
 
 
 
